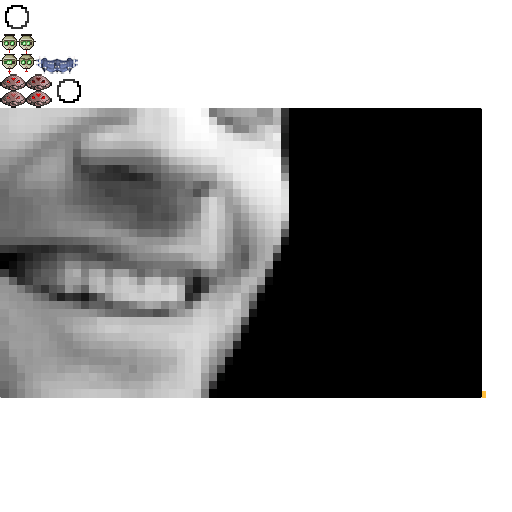
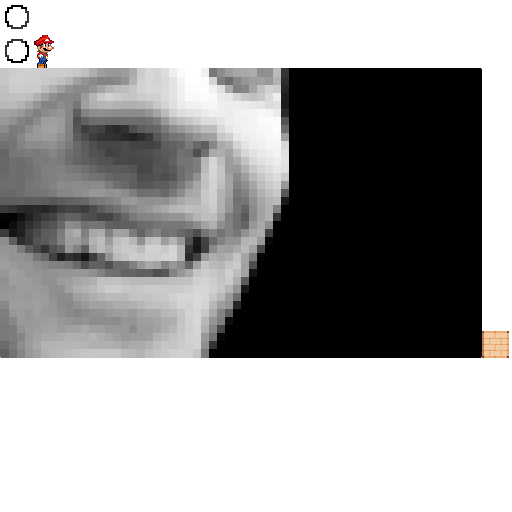
Create hero and stones

diff --git a/src/nl/endroid/app/platform/screen/GameScreen.java b/src/nl/endroid/app/platform/screen/GameScreen.java
@@ -1,14 +1,79 @@
 package nl.endroid.app.platform.screen;
 
+import java.util.Random;
+
+import com.badlogic.gdx.Gdx;
+import com.badlogic.gdx.math.Vector2;
+import com.badlogic.gdx.utils.Array;
+
+import nl.endroid.app.platform.entity.Hero;
+import nl.endroid.app.platform.entity.Stone;
+import nl.endroid.framework.Utils;
 import nl.endroid.framework.screen.BaseGameScreen;
 
 public class GameScreen extends BaseGameScreen
 {
+	protected Array<Stone> stones;
+	protected Hero hero;
+	
 	@Override
 	public void show()
 	{
 		super.show();
 		
+		world.setGravity(new Vector2(0.0f, -9.81f));
 		
+		int currentX = -1000;
+		int currentY = 0;
+		
+		Stone stone = null;
+		stones = new Array<Stone>();
+		for (int index = 0; index < 100; index++) {
+			stone = new Stone();
+			stone.createBody(world);
+			stage.addActor(stone);
+			stone.setPosition(currentX, currentY);
+			currentX += stone.getWidth();
+		}
+		
+		currentX = (int) stone.getWidth() * 2;
+		currentY += stone.getHeight();
+		
+		Random random = new Random();
+		for (int index = 0; index < 100; index++) {
+			if (random.nextBoolean()) {
+				stone = new Stone();
+				stone.createBody(world);
+				stage.addActor(stone);
+				stone.setPosition(currentX, currentY);
+			}
+			currentX += stone.getWidth();
+		}
+		
+		hero = new Hero();
+		hero.createBody(world);
+		stage.addActor(hero);
+		hero.setPosition(hero.getWidth() / 2, stone.getHeight() / 2 + hero.getHeight() / 2 + 150);
+		
+		Gdx.input.setInputProcessor(this);
+	}
+	
+	@Override
+	public void update(float delta)
+	{
+		super.update(delta);
+		
+		Vector2 velocity = hero.getBody().getLinearVelocity();
+		velocity.x = Gdx.input.getAccelerometerY() * 2;
+		
+		hero.getBody().setLinearVelocity(velocity);
+	}
+	
+	@Override
+	public boolean touchDown(int x, int y, int pointer, int button)
+	{
+		hero.getBody().applyForce(0.0f, 30f, Utils.pixelsToMeters(hero.getX()), Utils.pixelsToMeters(hero.getY()));
+		
+		return false;
 	}
 }

diff --git a/src/nl/endroid/app/platform/entity/Stone.java b/src/nl/endroid/app/platform/entity/Stone.java
@@ -1,0 +1,28 @@
+package nl.endroid.app.platform.entity;
+
+import com.badlogic.gdx.physics.box2d.FixtureDef;
+import com.badlogic.gdx.physics.box2d.Shape;
+import com.badlogic.gdx.physics.box2d.BodyDef.BodyType;
+
+import nl.endroid.framework.Entity;
+
+public class Stone extends Entity
+{
+	@Override
+	protected void configure()
+	{
+		bodyType = BodyType.StaticBody;
+		
+		addAnimation("stone");
+	}
+	
+	protected void createFixture(Shape shape)
+	{
+		FixtureDef fixtureDef = new FixtureDef();
+		fixtureDef.shape = shape;
+		fixtureDef.density = 1.0f;
+		fixtureDef.friction = 0.0f;
+		fixtureDef.restitution = 0.0f;
+		fixture = body.createFixture(fixtureDef);
+	}
+}

diff --git a/src/nl/endroid/app/platform/entity/Hero.java b/src/nl/endroid/app/platform/entity/Hero.java
@@ -1,0 +1,27 @@
+package nl.endroid.app.platform.entity;
+
+import com.badlogic.gdx.physics.box2d.FixtureDef;
+import com.badlogic.gdx.physics.box2d.Shape;
+
+import nl.endroid.framework.Entity;
+
+public class Hero extends Entity
+{
+	@Override
+	protected void configure()
+	{
+		bodyShape = BODY_SHAPE_CIRCLE;
+		
+		addAnimation("hero");
+	}
+	
+	protected void createFixture(Shape shape)
+	{
+		FixtureDef fixtureDef = new FixtureDef();
+		fixtureDef.shape = shape;
+		fixtureDef.density = 1.0f;
+		fixtureDef.friction = 0.0f;
+		fixtureDef.restitution = 0.0f;
+		fixture = body.createFixture(fixtureDef);
+	}
+}

diff --git a/src/nl/endroid/app/platform/MainApplication.java b/src/nl/endroid/app/platform/MainApplication.java
@@ -20,7 +20,7 @@ public class MainApplication extends BaseApplication
 		addScreen("menu", new MenuScreen());
 		addScreen("game", new GameScreen());
 		
-		setStartScreen("splash");
+		setStartScreen("game");
 		
 		setFPSLoggerEnabled(false);
 	}
